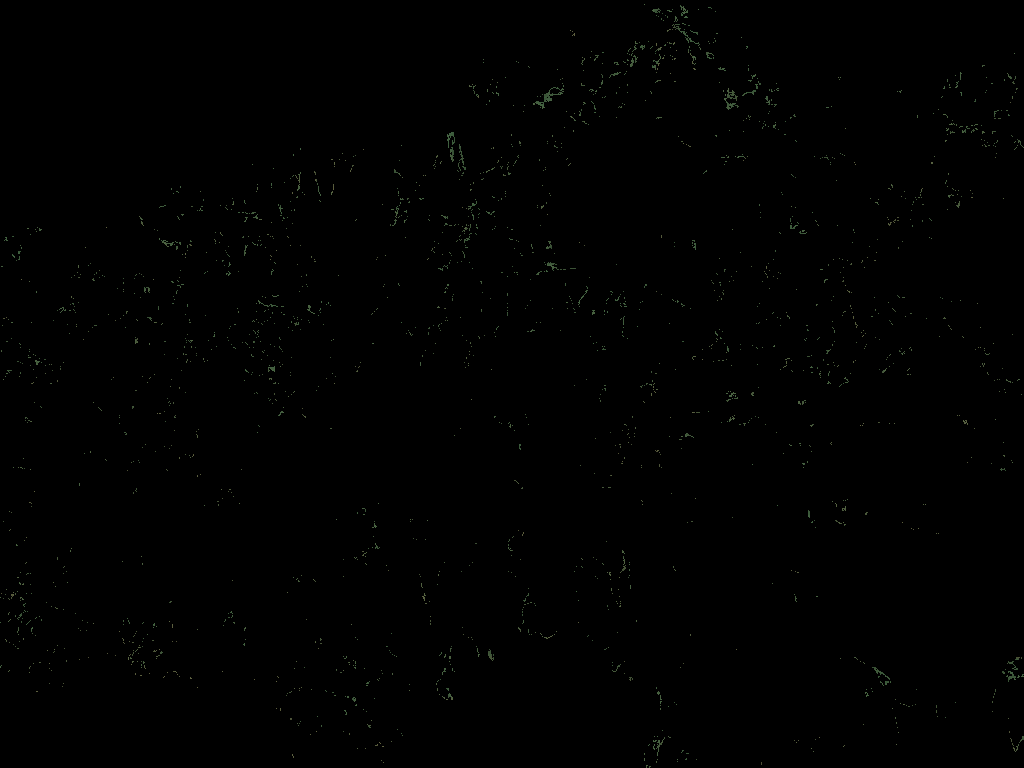
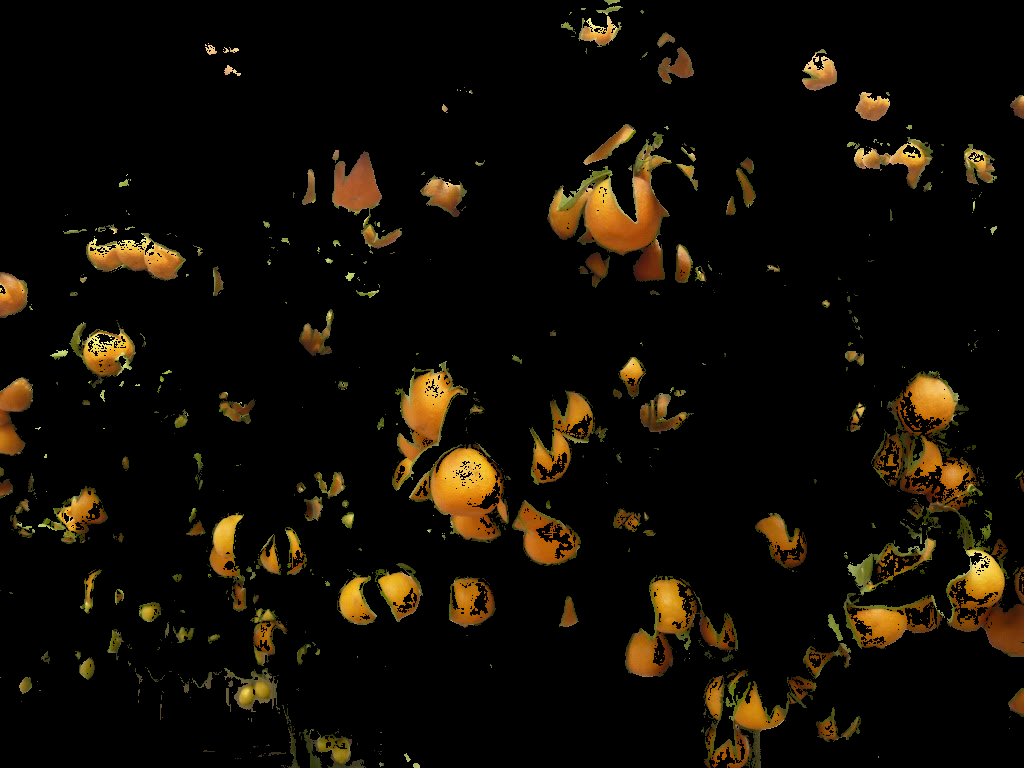
segmentation

diff --git a/segmentation/seg.py b/segmentation/seg.py
@@ -2,40 +2,60 @@ import cv2
 import numpy as np 
 import colorsys
 
-# load image as hsv
+import matplotlib.pyplot as plt
+from mpl_toolkits.mplot3d import Axes3D
+from matplotlib import cm
+from matplotlib import colors
+
+# pah of image
 path = "laranjas.jpg"
 
-img = cv2.imread(path, cv2.IMREAD_COLOR)
+# load image in BGR
+img = cv2.imread(path)
+
+#convert image for HSV
+hsv = cv2.cvtColor(img, cv2.COLOR_BGR2HSV)
 
 # get height and width
 src_h, src_w, _ = img.shape
 
-# convert image
-hsv = cv2.cvtColor(img, cv2.COLOR_BGR2HSV)
-
-# create matrix of zeros
-oranges = np.zeros((src_h, src_w), dtype= 'uint8')
-background = np.zeros((src_h, src_w), dtype= 'uint8')
-leafs = np.zeros((src_h, src_w), dtype= 'uint8')
-
 # define boundaries HSV for oranges
-upper_orange = (60,92,100)
-lower_orange = (30, 80, 78)
+lower_orange = (0, 100, 50)
+upper_orange = (35,250,250)
 
-# lower_orange = (1, 190, 200)
-# upper_orange = (18, 255, 255)
+# define boundaries HSV for leafs
+lower_leaf = (0, 50, 0)
+upper_leaf = (200,270,110)
 
-# filter oranges
-for i in range (src_w):
-	for j in range(src_h):
+# create default images
+oranges = np.zeros((src_h, src_w, 3), dtype= 'uint8')
+leafs = np.zeros((src_h, src_w, 3), dtype= 'uint8')
+background = np.zeros((src_h, src_w, 3), dtype= 'uint8')
+
+# segmentation
+for i in range (src_h):
+	for j in range(src_w):
 		color = hsv[i,j]
-		is_color = 1
+		orange = 1
+		leaf = 1
 		for k in range(3):
 			if (color[k] < lower_orange[k] or color[k] > upper_orange[k]):
-				is_color = 0
-		if (is_color == 1):
+				orange = 0
+			if (color[k] < lower_leaf[k] or color[k] > upper_leaf[k]):
+				leaf = 0
+		if (orange == 1):
 			oranges[i,j] = hsv[i,j]
+		elif(leaf == 1):
+			leafs[i,j] = hsv[i,j]
+		elif(orange == 0 and leaf == 0):
+			background[i,j] = hsv[i,j]
 
+# convert to BGR
+oranges = cv2.cvtColor(oranges, cv2.COLOR_HSV2BGR)
+leafs = cv2.cvtColor(leafs, cv2.COLOR_HSV2BGR)
+background = cv2.cvtColor(background, cv2.COLOR_HSV2BGR)
+
+# print all images
 cv2.imwrite('oranges.png', oranges)
-# cv2.imwrite('leafs.png', leafs)
-# cv2.imwrite('background.png', background)
+cv2.imwrite('leafs.png', leafs)
+cv2.imwrite('background.png', background)

diff --git a/segmentation/faixas.py b/segmentation/faixas.py
@@ -1,0 +1,29 @@
+import cv2
+import matplotlib.pyplot as plt
+import numpy as np
+from mpl_toolkits.mplot3d import Axes3D
+from matplotlib import cm
+from matplotlib import colors
+
+flags = [i for i in dir(cv2) if i.startswith('COLOR_')]
+
+print len(flags)
+print flags[40]
+
+nemo = cv2.imread('laranjas.jpg')
+nemo = cv2.cvtColor(nemo, cv2.COLOR_BGR2RGB)
+
+r, g, b = cv2.split(nemo)
+fig = plt.figure()
+axis = fig.add_subplot(1, 1, 1, projection="3d")
+
+pixel_colors = nemo.reshape((np.shape(nemo)[0]*np.shape(nemo)[1], 3))
+norm = colors.Normalize(vmin=-1.,vmax=1.)
+norm.autoscale(pixel_colors)
+pixel_colors = norm(pixel_colors).tolist()
+
+axis.scatter(r.flatten(), g.flatten(), b.flatten(), facecolors=pixel_colors, marker=".")
+axis.set_xlabel("Red")
+axis.set_ylabel("Green")
+axis.set_zlabel("Blue")
+plt.show()
